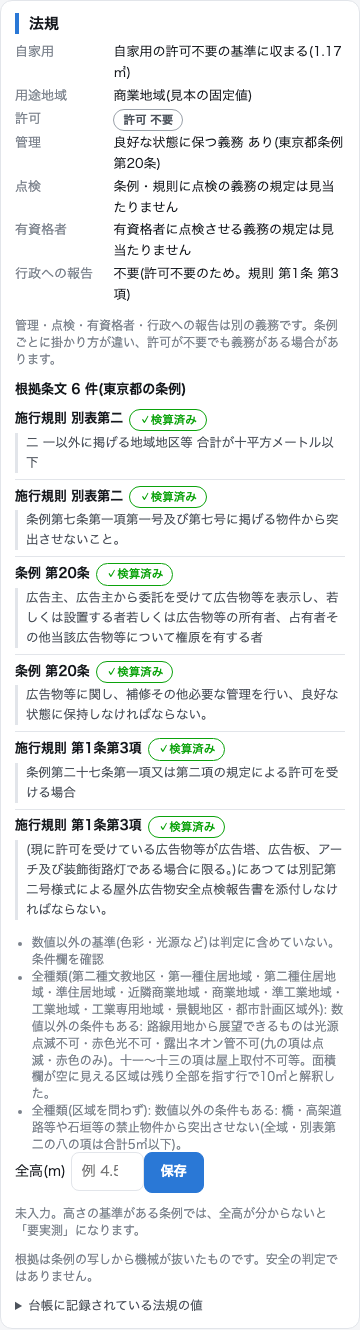
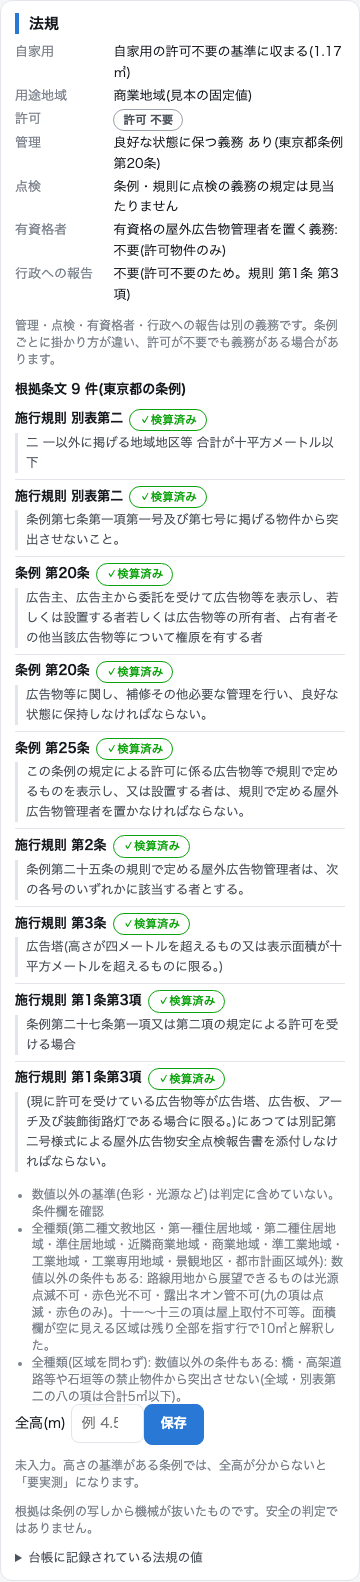
Docs: Tokyo manager-placement duty in LEGAL.md duty tables and 24-case matrix; refresh karte-legal-pc screenshot
東京都の有資格者の行(許可・全高5m→要、一般5㎡・3m→不要)を表に反映。文言は『。』で範囲と条文を区切る。

Changed region(s): [[0.0306, 0.0, 0.9472, 0.9865]]

diff --git a/kanban_karte/legal/duties.py b/kanban_karte/legal/duties.py
@@ -223,7 +223,7 @@ def judge_duties(R: dict, key: str | None, *, area, height, gc, permit: str, wor
         st, why = eval_conditions(qi.get("conditions"), **kw)
         lead = "有資格の屋外広告物管理者を置く義務"
         if st == "hit":
-            v, why, t = REQUIRED, "", f"{lead}: 要{_paren(qi.get('scope') or ctext, _refs_in(refs))}"
+            v, why, t = REQUIRED, "", f"{lead}: 要{_paren_why(qi.get('scope') or ctext, _refs_in(refs))}"
         elif st == "miss":
             v = NOT_REQUIRED
             why = "許可物件のみ" if why == "許可不要のため" else why

diff --git a/docs/LEGAL.md b/docs/LEGAL.md
@@ -84,16 +84,16 @@ Python から: `from kanban_karte.legal.judge import judge` → `judge("住所",
 |---|---|---|---|
 | 管理 | 補修その他必要な管理を行い、良好な状態に保持する(点検の義務ではない) | `maintenance_duty` | 要 / 不要 / 要実測 |
 | 点検 | 劣化・損傷の状況を点検する(させる)。周期があれば年 | `inspection_duty` | 要 / 不要 / 要実測 |
-| 有資格者 | 点検を屋外広告士等の資格者にさせる。義務 / 努力義務 | `qualified_inspector` | 要 / 努力 / 不要 / 要実測 |
+| 有資格者 | 点検を屋外広告士等の資格者にさせる。義務 / 努力義務。東京都だけは『有資格の屋外広告物管理者を置く』義務(`duty_kind: "manager"`、任意キー、既定 `inspection`) | `qualified_inspector` | 要 / 努力 / 不要 / 要実測 |
 | 行政への報告 | 点検結果を知事・市長へ報告・提出する(許可・更新の申請時 等) | `report_duty` | 要 / 不要 / 要実測 |
 
-各項目は `citations` / `confidence` / `conditions`(`area_min_m2`・`height_min_m`(+`height_min_inclusive`: 「超える」は false)・`ground_clearance_min_m`・`permit_required_only`・`kinds` / `excluded_kinds`)を持つ。条件は AND(上端 4m 超 **かつ** 許可要 など)。種類で絞る条件は、種類が分からなければ 要実測。除外の種類は、種類が分からなければ除外しない(画面には除外される物を注に出す)。高さは上端の高さ(全高、地上から)。
+各項目は `citations` / `confidence` / `conditions`(`area_min_m2`・`height_min_m`(+`height_min_inclusive`: 「超える」は false)・`ground_clearance_min_m`・`permit_required_only`・`kinds` / `excluded_kinds`)を持つ。条件は AND(上端 4m 超 **かつ** 許可要 など)。寸法の OR は任意キー `any_of`(例: 高さ4m超 **または** 面積10㎡超。各要素は `*_min_m*` と `*_min_inclusive`)で表し、どれか1つ満たせば満たす(片方が超えていれば全高・面積の他方が不明でも確定、両方不明なら要実測)。`size_kinds` を置くと寸法条件はその種類にだけ掛かる(東京都: 広告塔・広告板だけ。アーチ・装飾街路灯は寸法によらない)。`area_min_inclusive: false` は面積『超』。種類で絞る条件は、種類が分からなければ 要実測。除外の種類は、種類が分からなければ除外しない(画面には除外される物を注に出す)。高さは上端の高さ(全高、地上から)。
 
 ### 自治体 × 義務(AI が原文から抽出。画面と judge に出る内容)
 
 | 自治体 | 管理 | 点検する | 有資格者に点検させる | 行政へ報告 |
 |---|---|---|---|---|
-| 東京都 | **あり**。広告物の表示者等(全部の広告物)。条例 第20条 | **条文なし**(条例・規則に定期点検の規定が見当たらない。`absent_in_text`) | **条文なし**(条例 第25条の屋外広告物管理者は『置く』義務で、点検をさせる義務ではない) | **条件つき**: 条例 第27条の許可(更新)を受けるとき、現に許可を受けている広告物が広告塔・広告板・アーチ・装飾街路灯の場合に限り、別記第二号様式 屋外広告物安全点検報告書を添付。規則 第1条 第3項。許可を受ける物だけ |
+| 東京都 | **あり**。広告物の表示者等(全部の広告物)。条例 第20条 | **条文なし**(条例・規則に定期点検の規定が見当たらない。`absent_in_text`) | **義務(中身は『有資格の屋外広告物管理者を置く』。点検をさせる義務ではない)**: 許可に係る広告物のうち、広告塔・広告板(高さ4m超**または**表示面積10㎡超に限る)、アーチ、装飾街路灯(寸法によらない)。条例 第25条、規則 第3条。管理者の資格(規則 第2条): 建築士 / 電気工事士・ネオン工事の特種電気工事資格者 / 第一種〜第三種電気主任技術者 / 屋外広告士(登録試験機関の試験合格者)。設置したら屋外広告物管理者設置届(許可申請書の管理者欄に書けば省略可、規則 第5条)。点検者が管理者でなければならない条文は無い(`duty_kind: "manager"`) | **条件つき**: 条例 第27条の許可(更新)を受けるとき、現に許可を受けている広告物が広告塔・広告板・アーチ・装飾街路灯の場合に限り、別記第二号様式 屋外広告物安全点検報告書を添付。規則 第1条 第3項。許可を受ける物だけ |
 | 埼玉県 | **あり**。表示者・設置者(管理者が置かれているときはその者)。条例 第14条 | **あり**。表示者・設置者。**三年を超えない期間ごと**(許可・更新の申請前3月以内)。条例 第14条の2 第1項、規則 第10条の4 第1項。除外: はり紙・はり札・広告旗・立看板・広告幕・アドバルーン・壁面に描かれた広告物・条例 第7条の適用除外物件(自家用は含まれない)・他法令で同程度の点検・設置後3月以内・検査済証から1年以内・表示面のみの変更(同 第2項) | **義務**: 上端が地上から 4m を超え、かつ許可を要する物(条例 第14条の2 第2項、規則 同 第3項)。**努力義務**: 上端 4m 超(許可不要でも)(条例 同 第3項、規則 同 第5項)。資格者: 屋外広告士等、日本屋外広告業団体連合会/日本サイン協会の点検技能講習修了者(規則 同 第4項) | **条件つき**: 許可・更新・第12条の許可の申請者だけ。点検不要広告物等を除く。様式第一号の二。条例 第14条の2 第4項、規則 同 第6項 |
 | 越谷市 | **あり**。表示者・設置者(管理者がいればその者)、所有者・占有者。条例 第18条 第1項 | **あり**(周期の規定なし)。所有者等。条例 第18条の2 第1項。除外(規則 第14条の4): 貼り紙・貼り札・広告旗・立看板・広告幕・置き看板・アドバルーン等の軽易な物、条例 第8条の物で他法令で同程度の点検をするもの、市長が必要ないと認めるもの | **義務**(点検する義務と一体): 『屋外広告士その他これと同等以上の知識を有する者に点検をさせなければならない』。資格者は規則 第14条の3 | **条件つき**: 許可・更新の申請者が点検結果を市長に提出。条例 第18条の2 第2項、規則 第14条の5(報告書は第2号様式) |
 | さいたま市 | **あり**。条例 第18条 第1項 | **あり**(周期の規定なし)。条例 第18条の2 第1項。除外(規則 第16条の3): 越谷市と同型(条例 第7条の物) | **義務**(一体)。資格者は規則 第16条の2(屋外広告士・講習修了者・一級/二級建築士・電気主任技術者・市長が認める者) | **条件つき**: 許可・更新の申請者が提出。**市長が必要ないと認めるときは除く**(第2項ただし書)。様式第11号。市長は安全管理上必要なら点検と報告を求められる(第4項)。条例 第18条の2 第2項、規則 第16条の4 |
@@ -108,10 +108,10 @@ Python から: `from kanban_karte.legal.judge import judge` → `judge("住所",
 |---|---|---|---|---|---|---|---|
 | 東京都 | 自家用・許可不要 | 3 m | 不要 | 要 | 不要 | 不要 | 不要 |
 | 東京都 | 自家用・許可不要 | 5 m | 不要 | 要 | 不要 | 不要 | 不要 |
-| 東京都 | 自家用・許可要 | 3 m | 要 | 要 | 不要 | 不要 | 要 |
-| 東京都 | 自家用・許可要 | 5 m | 要 | 要 | 不要 | 不要 | 要 |
+| 東京都 | 自家用・許可要 | 3 m | 要 | 要 | 不要 | 要 | 要 |
+| 東京都 | 自家用・許可要 | 5 m | 要 | 要 | 不要 | 要 | 要 |
 | 東京都 | 一般 | 3 m | 要 | 要 | 不要 | 不要 | 要 |
-| 東京都 | 一般 | 5 m | 要 | 要 | 不要 | 不要 | 要 |
+| 東京都 | 一般 | 5 m | 要 | 要 | 不要 | 要 | 要 |
 | 埼玉県 | 自家用・許可不要 | 3 m | 不要 | 要 | 要(3年) | 不要 | 不要 |
 | 埼玉県 | 自家用・許可不要 | 5 m | 不要 | 要 | 要(3年) | 努力 | 不要 |
 | 埼玉県 | 自家用・許可要 | 3 m | 要 | 要 | 要(3年) | 不要 | 要 |
@@ -132,7 +132,7 @@ Python から: `from kanban_karte.legal.judge import judge` → `judge("住所",
 | さいたま市 | 一般 | 5 m | 要 | 要 | 要 | 要 | 要 |
 
 
-読み方: 自家用・許可不要の行でも、埼玉県は点検(3年)が『要』、越谷市・さいたま市は点検と有資格者が『要』。埼玉県の有資格者は、全高 5m・許可不要なら『努力』、全高 5m・許可要なら『要』、3m なら『不要』。東京都は点検・有資格者の条文が無く、管理義務だけ(報告は広告塔等の許可・更新のときだけ)。行政への報告は 4 自治体とも許可・更新を受ける物だけ。全高が分からない(None)と埼玉県の有資格者は `要実測`。
+読み方: 自家用・許可不要の行でも、埼玉県は点検(3年)が『要』、越谷市・さいたま市は点検と有資格者が『要』。埼玉県の有資格者は、全高 5m・許可不要なら『努力』、全高 5m・許可要なら『要』、3m なら『不要』。東京都は点検の条文が無い。有資格者の行は『有資格の屋外広告物管理者を置く』義務で、許可物件のうち高さ4m超または10㎡超の広告塔・広告板(アーチ・装飾街路灯は寸法によらない)に掛かる(許可要・全高 5m は 要、一般 5㎡・全高 3m は 不要。自家用・許可要 30㎡ は面積で 要)。報告は広告塔等の許可・更新のときだけ。行政への報告は 4 自治体とも許可・更新を受ける物だけ。全高が分からない(None)と埼玉県の有資格者は `要実測`。
 
 ### 4義務の再抽出(`legal.cli duties`)
 
@@ -225,7 +225,7 @@ python3 -m kanban_karte.legal.cli store-names [--db signjobz.db] [--since 2022-0
 - 東京都 別表第三は `permit_standards` に展開したが、判定の要否には効かず注に出るだけ(上の「検算」)。電柱・鉄道沿線・空港の表は列が崩れていて対応づけに不確実さが残る(`table3_extraction.notes`)。
 - 用途地域・禁止区域かどうかは**住所から引けない**(座標化・都市計画の地図データは扱わない)。設置場所の区分が分からないと、面積が閾値の間にある看板は 要実測 になり、`branches` に場合分けが出る。
 - 景観計画区域・地区計画・広告協定地区・知事/市長の指定区域による個別の基準は見ていない。
-- 点検の周期(年)が規則にあるのは埼玉県(3年)だけで、ほかの3つは `interval_years` が null(周期の規定が無い)。東京都は点検する義務・有資格者の条文が見当たらない(grep で『定期』『有資格』『点検』を確認。見落としがあれば `inspection_duty` を直す)。越谷市・さいたま市は『市長が必要ないと認めるもの』を除外に含むので、個別の免除は判定に出ない。
+- 点検の周期(年)が規則にあるのは埼玉県(3年)だけで、ほかの3つは `interval_years` が null(周期の規定が無い)。東京都は点検する義務の条文が見当たらない(grep で『定期』『点検』を確認。見落としがあれば `inspection_duty` を直す)。有資格者は『点検をさせる』ではなく『有資格の屋外広告物管理者を置く』(条例 第25条、規則 第2・3条。2026-11-02 に原文で確認し手で入れた。API の再抽出は未実施)。越谷市・さいたま市は『市長が必要ないと認めるもの』を除外に含むので、個別の免除は判定に出ない。
 - 屋外広告物法(国)や、点検の様式改正(東京都 2026-04-01 施行の第2号様式)の扱いは見ていない。台帳の18項目の様式は `kanban_karte/ledger/items.py` が正本。
 - 許可期間は「◯年以内」の上限。次回の許可期限の日付は台帳の許可書の日付から出す(この部品は期間の長さだけを返す)。
 - 東京都以外の都道府県は未対応(都道府県名だけ返し、判定は 要実測)。
